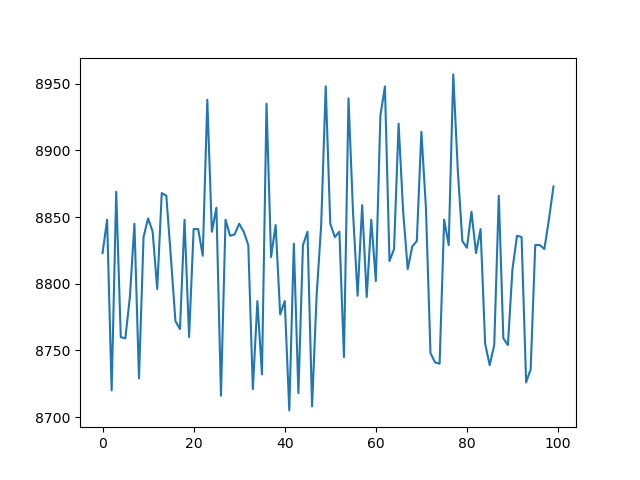
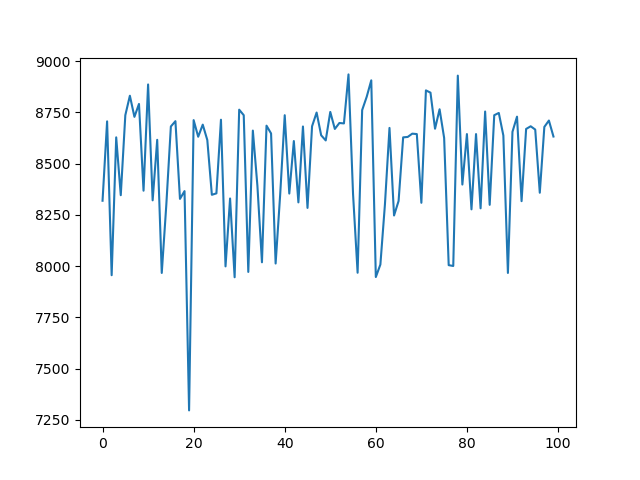
restart van hillclimber toegevoegd/ nog een keer

diff --git a/addey_main.py b/addey_main.py
@@ -20,7 +20,7 @@ if __name__ == "__main__":
     # start state 1 oplossing = lijst[traject([stations)])]
     # een lijst met oplossing 1 oploss#ing kiezen 
     possible_solutions = []
-    for i in range(5):
+    for i in range(10000):
         solution = run_random_algoritme(stations,7)
         possible_solutions.append(solution)
     random_chosen_solution= random.choice(possible_solutions)
